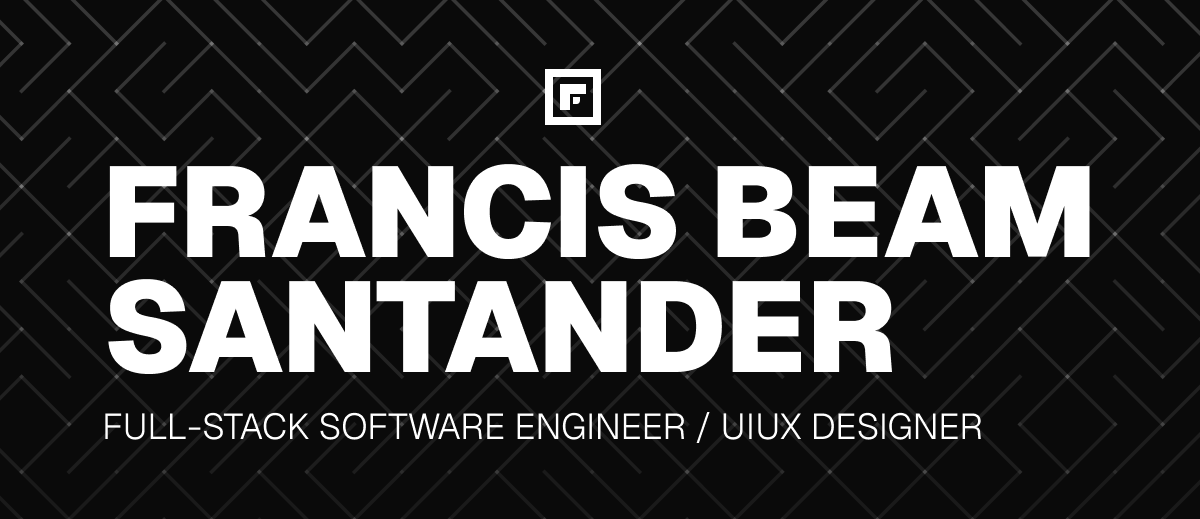
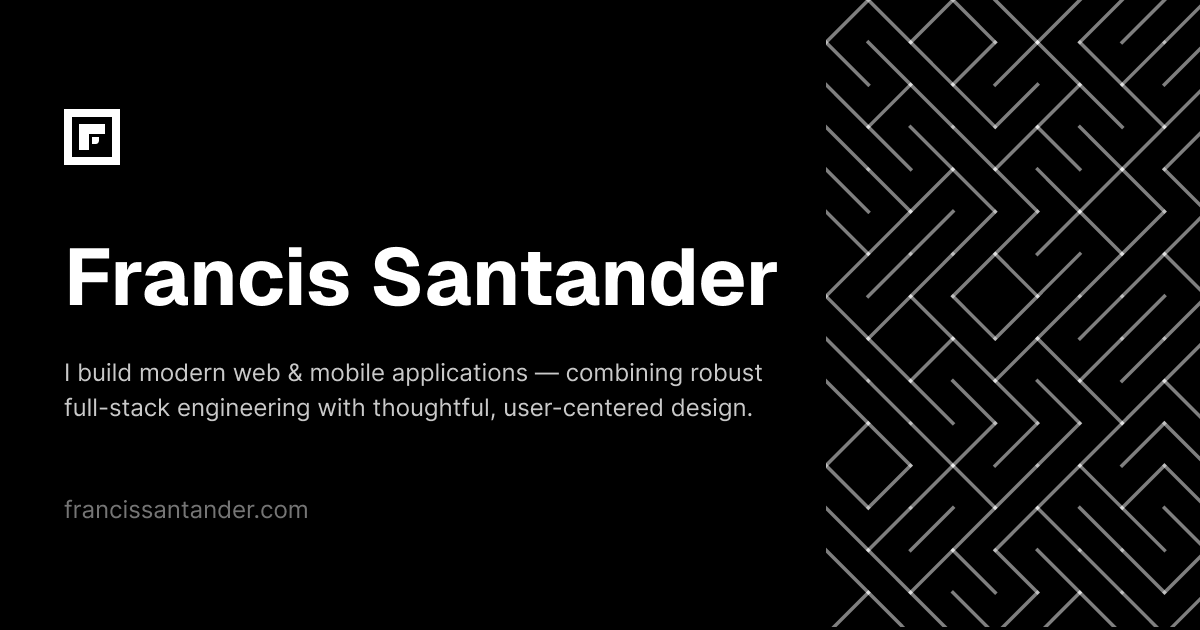
add: og-image

diff --git a/config/site.ts b/config/site.ts
@@ -1,19 +1,18 @@
 export const siteConfig = {
   name: "Francis Beam Santander",
   shortName: "Francis Santander",
-
   title: {
     default:
       "Francis Santander — Full-Stack Software Engineer & UI/UX Designer",
     template: "%s | Francis Santander",
   },
-
+  email: "hello@francissantander.com",
   description:
     "I'm Francis Santander — a Full-Stack Software Engineer and UI/UX Designer from the Philippines. I design and develop modern, scalable web applications that combine clean architecture with intuitive, user-centered experiences.",
 
   url: "https://francissantander.com",
+  ogImage: "/og-image.png",
   locale: "en_US",
-
   images: {
     og: "/og-image.png",
     favicon: "/favicon.ico",
